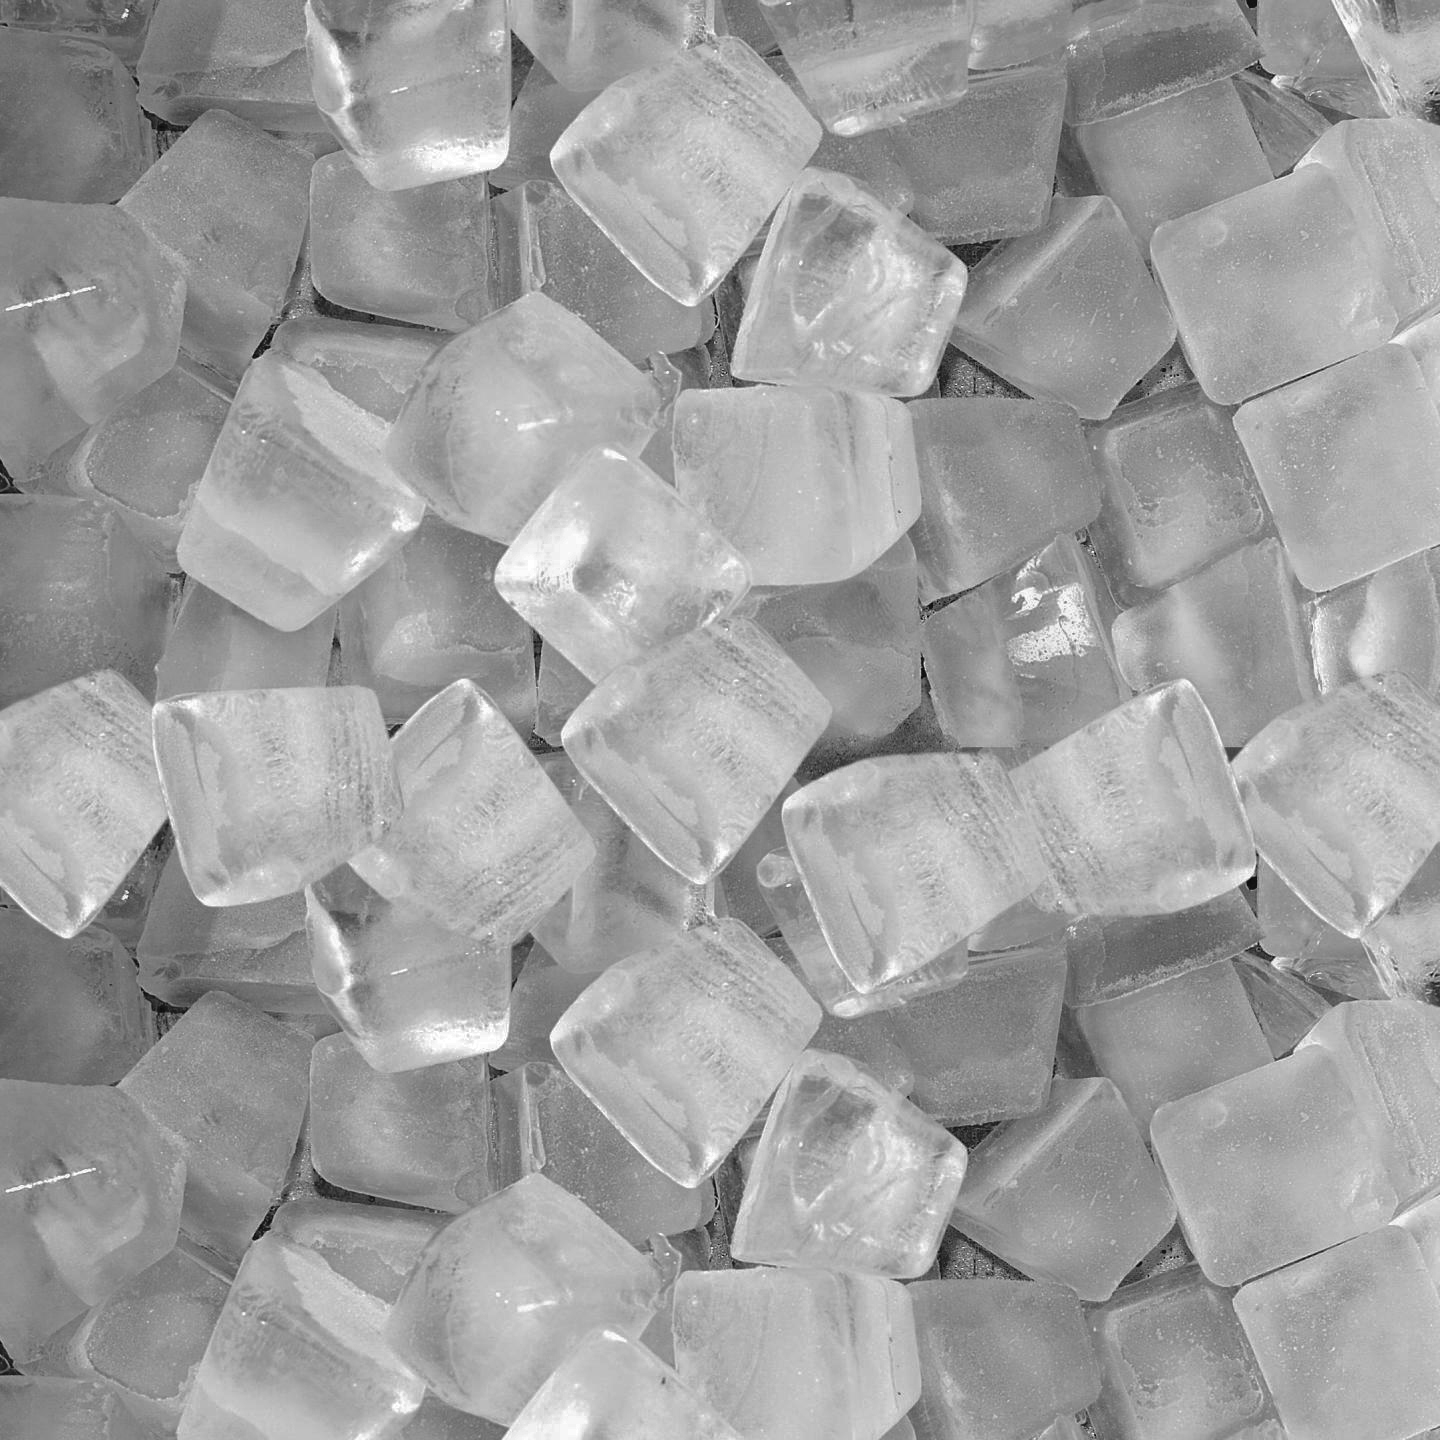
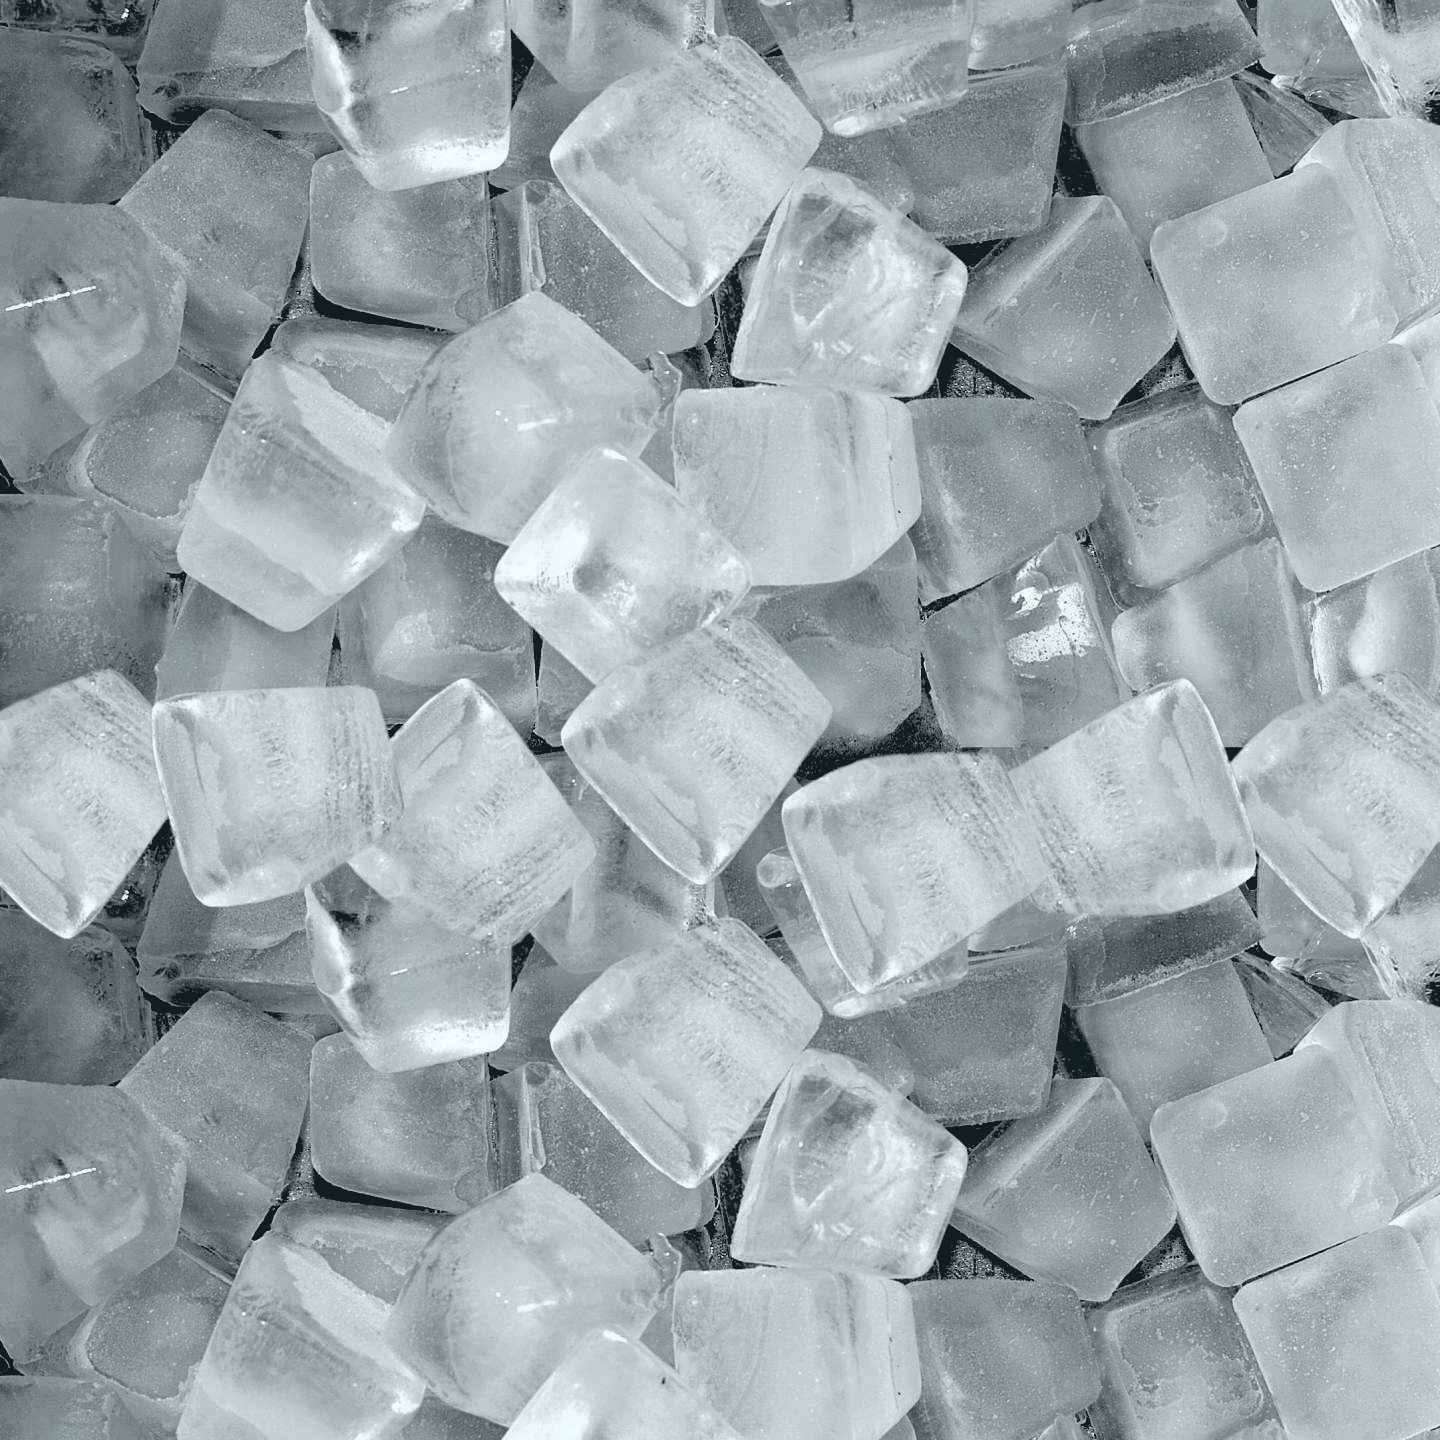
Updated background image

diff --git a/src/components/BeerCardsContainer/BeerCardsContainer.scss b/src/components/BeerCardsContainer/BeerCardsContainer.scss
@@ -6,7 +6,7 @@
     align-items: flex-start;
     flex-wrap: wrap;
 
-    background-image: url("../../assets/images/ice-cubes.jpg");
+    background: #ffffff url("../../assets/images/ice-cubes.jpg") no-repeat scroll;
 }
 
 @media screen and (min-width: 992px) {
